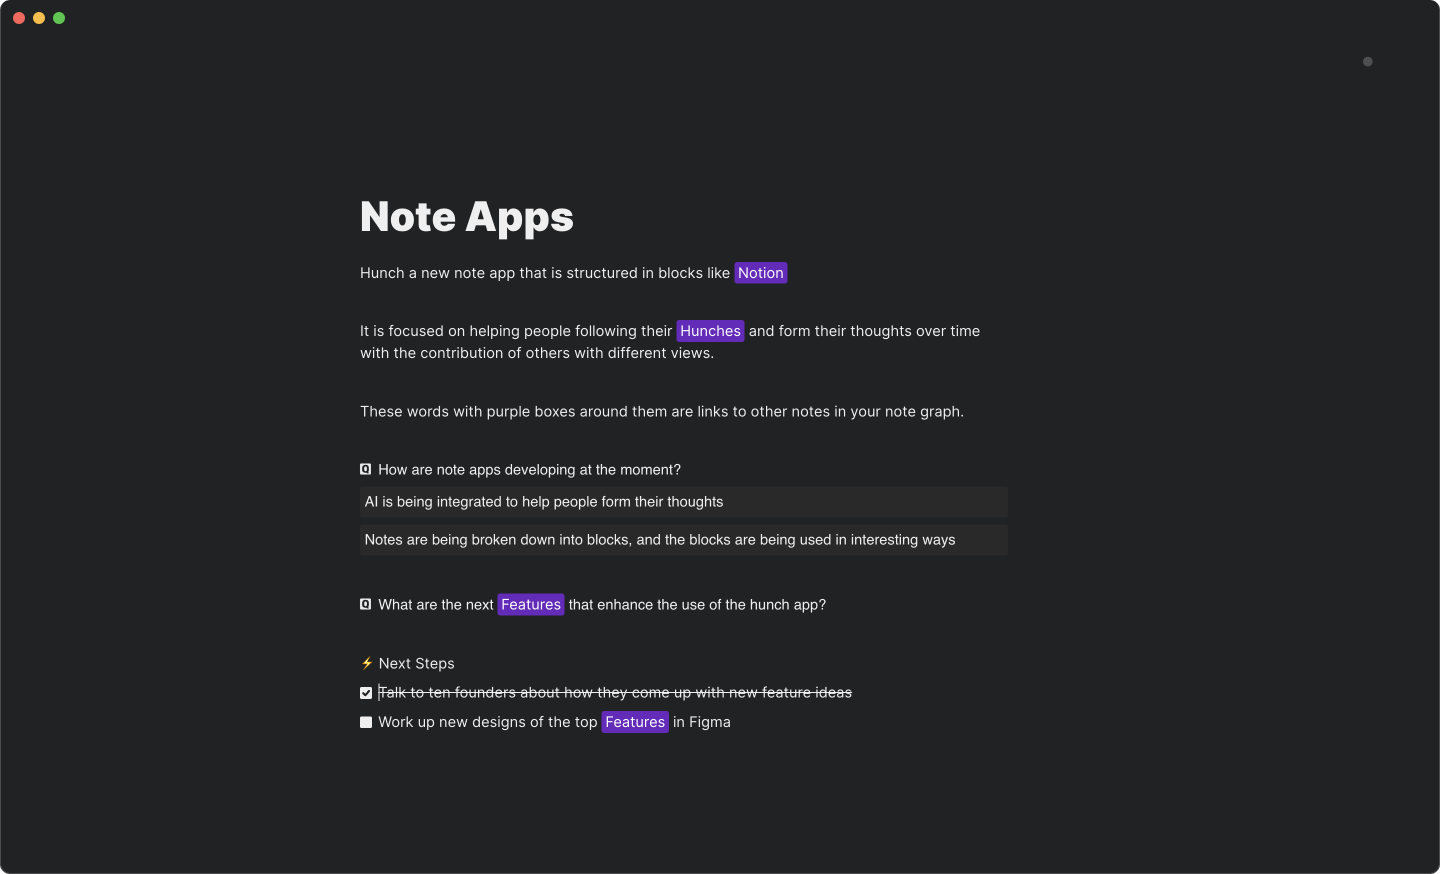
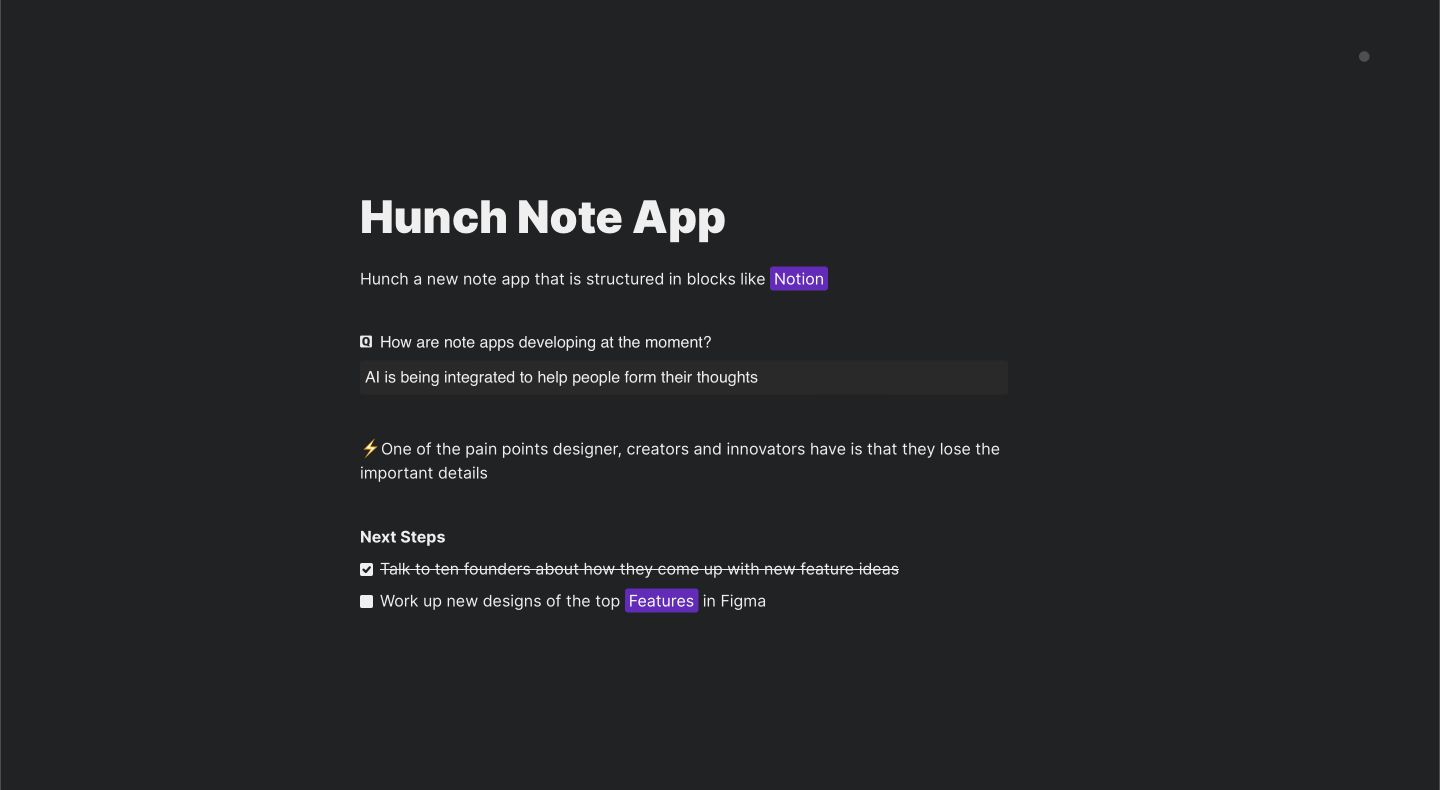
update for designers, creators and innovators

diff --git a/src/App.js b/src/App.js
@@ -4,13 +4,9 @@ import { uid } from 'uid';
 import { initializeApp } from "firebase/app";
 import { getFirestore, doc, setDoc } from "firebase/firestore";
 import styled from 'styled-components';
-import Links from './images/Links.png';
 import Blocks from './images/Blocks.png';
-import Share from './images/Share.png';
-import Graph from './images/Graph.png';
-import LinksMobile from './images/LinksMobile.png';
 import BlocksMobile from './images/BlocksMobile.png';
-import ShareMobile from './images/ShareMobile.png';
+import Graph from './images/Graph.png';
 import GraphMobile from './images/GraphMobile.png';
 
 const firebaseConfig = {
@@ -58,34 +54,26 @@ const App = () => {
 
   return (
     <Container>
-      <Hero>A note app for your hunches.</Hero>
-      <Questions>
-        <FirstQuestion>What do you do with a hunch? <br /> </FirstQuestion>
-        Write it down? <br />
-        Lose it? <br />
-      </Questions>
+      <Hero>A note app for designers, creators and innovators.</Hero>
       <Statement>
-        What if you put it in context?<br />
-        {/* Add your images here */}
-        <Image src={isMobilePlatform ? LinksMobile : Links} alt="Screenshot of how links work in hunch" />
+        Hunch helps you notice the important details
+        <Description>
+        Each new line in your notes is a block, and there are many different types of blocks that you can create and track over time: Questions you have, tasks to do, pain points to solve, and hunches to follow.
+        </Description>
+        <Image src={isMobilePlatform ? BlocksMobile : Blocks} alt="Screenshot of how links work in hunch" />
       </Statement>
       <Statement>
-        What if you got contributions?<br />
-        {/* Add your images here */}
-        <Image src={isMobilePlatform ? ShareMobile : Share} alt="Screenshot of how to share a note in hunch" />
-      </Statement>
-      <Statement>
-        What if you progress it?<br />
-        {/* Add your images here */}
-        <Image src={isMobilePlatform ? BlocksMobile : Blocks} alt="Screenshot of how to progress a hunch with questions and actions" />
-      </Statement>
-      <Statement>
-        What if you had many hunches?<br />
-        {/* Add your images here */}
+      Then see the bigger picture come together
+        <Description>
+        The graph view lets you see what notes have the different block types that you are interested in. So you and your team can be taking a lot of notes on a project, while still be able to see what is emerging.
+        </Description>
         <Image src={isMobilePlatform ? GraphMobile : Graph} alt="Screenshot of how to view all notes in hunch in a graph view" />
       </Statement>
       <Waitlist>
         <Invite>Join the waitlist</Invite>
+        <Description>
+          Hunch is currently in closed beta, but join the waitlist to get setup
+        </Description>
         <form onSubmit={handleSubmit}>
           <InputContainer>
             <EmailInput
@@ -112,7 +100,7 @@ const Container = styled.div`
 `;
 
 const Hero = styled.div`
-  font-size: 160px;
+  font-size: 120px;
   text-align: left;
   padding-top: 30vh;
   padding-left: 5vw;
@@ -128,31 +116,12 @@ const Hero = styled.div`
   }
 `;
 
-const FirstQuestion = styled.div`
-  background: -webkit-linear-gradient(45deg, #6A27BF, #CC413B);
-  -webkit-background-clip: text;
-  color: transparent;
-`;
-
-const Questions = styled.div`
-  font-size: 60px;
-  text-align: left;
-  padding-top: 100px;
-  padding-left: 10vw;
-  padding-bottom: 60vh;
-  width: 80%;
-  @media (max-width: 960px) {
-    font-size: 40px;
-    padding-left: 10vw;
-  }
-`;
-
 const Statement = styled.div`
   font-size: 60px;
   text-align: left;
   padding-top: 100px;
   padding-left: 10vw;
-  padding-bottom: 60vh;
+  padding-bottom: 40vh;
   width: 80%;
   background: -webkit-linear-gradient(45deg, #6A27BF, #CC413B);
   -webkit-background-clip: text;
@@ -161,6 +130,18 @@ const Statement = styled.div`
     font-size: 40px;
     padding-left: 5vw;
     width: 90%;
+  }
+`;
+
+const Description = styled.div`
+  font-size: 18px;
+  font-weight: 200;
+  color: #4F4F4F;
+  background: none;
+  padding-top: 14px;
+  width: 80%;
+  @media (max-width: 960px) {
+    font-size: 14px;
   }
 `;
 
@@ -183,7 +164,6 @@ const Image = styled.img`
 const Waitlist = styled.div`
   text-align: left;
   font-size: 60px;
-  padding-top: 50vh;
   padding-left: 10vw;
   padding-bottom: 50vh;
   width: 80%;
